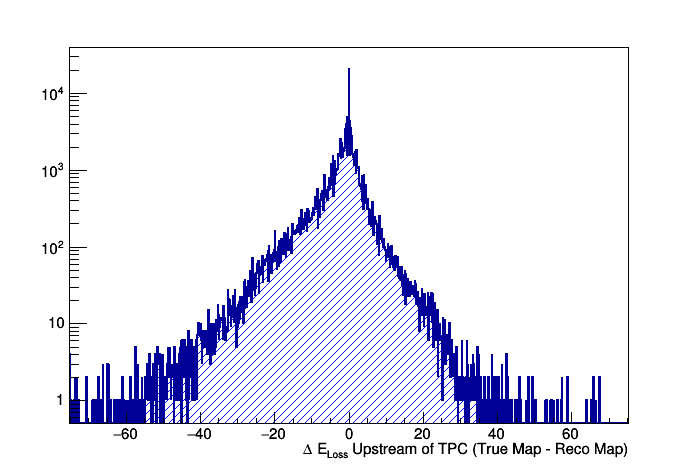
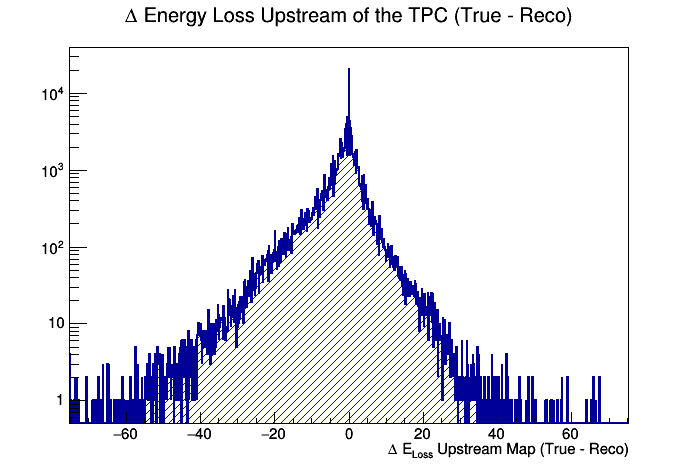
Checks for the Peaks

Changed region(s): [[0.1805, 0.0, 0.8123, 0.0594], [0.4513, 0.9214, 0.9026, 0.9809]]

diff --git a/ProtonMC.C b/ProtonMC.C
@@ -219,6 +219,29 @@ TH1D *hDeltaEnergyLossUpstreamTPCTruevsReco = new TH1D("hDeltaEnergyLossUpstream
 
 TH2D *hDeltaEInTPCvsTrkLength = new TH2D("hDeltaEInTPCvsTrkLength", "TrkLength vs Delta E", 1000, 0, 110, 1000, -75, 75);
 TH2D *hDeltaEInTPCvsKEinit = new TH2D("hDeltaEInTPCvsKEinit", "Initial KE vs Delta E", 80, 0, 800, 1000, -75, 75);
+
+//--------------------------------------|
+//--- Checking Dual Peaks Histograms ---|
+//--------------------------------------|
+
+TH1D *hLXRecoInTPC = new TH1D("hLXRecoInTPC", "Reconstructed X_{0} Inside the TPC of the Left Peak of the Dual Peaks", 200, -50, 50);
+TH1D *hLYRecoInTPC = new TH1D("hLYRecoInTPC", "Reconstructed Y_{0} Inside the TPC of the Left Peak of the Dual Peaks", 200, -50, 50);
+TH1D *hLZRecoInTPC = new TH1D("hLZRecoInTPC", "Reconstructed Z_{0} Inside the TPC of the Left Peak of the Dual Peaks", 600, -120, 180);
+
+TH1D *hLTrueELossInTPC = new TH1D("hLTrueELossInTPC", "The Left Peaks True E_{Loss} Inside the TPC", 1100, -100, 1000);
+TH1D *hLRecoELossInTPC = new TH1D("hLRecoELossInTPC", "The Left Peaks Reconstructed E_{Loss} Inside the TPC", 1100, -100, 1000);
+TH1D *hLDeltaInTPC = new TH1D("hLDeltaInTPC", "#Delta E_{Loss} Inside the TPC of the Left Peak (True - Reco)", 1000, -75, 75);
+
+TH1D *hRXRecoInTPC = new TH1D("hRXRecoInTPC", "Reconstructed X_{0} Inside the TPC of the Right Peak of the Dual Peaks", 200, -50, 50);
+TH1D *hRYRecoInTPC = new TH1D("hRYRecoInTPC", "Reconstructed Y_{0} Inside the TPC of the Right Peak of the Dual Peaks", 200, -50, 50);
+TH1D *hRZRecoInTPC = new TH1D("hRZRecoInTPC", "Reconstructed Z_{0} Inside the TPC of the Right Peak of the Dual Peaks", 600, -120, 180);
+
+TH1D *hRTrueELossInTPC = new TH1D("hRTrueELossInTPC", "The Right Peaks True E_{Loss} Inside the TPC", 1100, -100, 1000);
+TH1D *hRRecoELossInTPC = new TH1D("hRRecoELossInTPC", "The Right Peaks Reconstructed E_{Loss} Inside the TPC", 1100, -100, 1000);
+TH1D *hRDeltaInTPC = new TH1D("hRDeltaInTPC", "#Delta E_{Loss} Inside the TPC of the Right Peak (True - Reco)", 1000, -75, 75);
+
+//--------------------------------------|
+
 // ===================================================================================================================
 // ===================================================================================================================
 
@@ -1078,12 +1101,34 @@ for (Long64_t jentry=0; jentry<nentries;jentry++)
    hMCELossRecoInTPC->Fill(RecoEnergyLossInsideTPC);
    
    float DeltaEnergyLossInTPC = EnergyLossInsideTPC - RecoEnergyLossInsideTPC;
-   float DeltaELossUpstreamTruevsReco = -999.;
+   float DeltaELossUpstreamTruevsReco = 999;
 
    DeltaELossUpstreamTruevsReco = ELossMapTrue - EnergyLossFromMap;
 
-   if (DeltaELossUpstreamTruevsReco != -999) {hDeltaEnergyLossUpstreamTPCTruevsReco->Fill(DeltaELossUpstreamTruevsReco);}
+   if (DeltaELossUpstreamTruevsReco != 999) {hDeltaEnergyLossUpstreamTPCTruevsReco->Fill(DeltaELossUpstreamTruevsReco);}
 
+   if (DeltaEnergyLossInTPC >= 15 && DeltaEnergyLossInTPC <= 35) 
+      {
+      hLXRecoInTPC->Fill(FirstSpacePointX);
+      hLYRecoInTPC->Fill(FirstSpacePointY);
+      hLZRecoInTPC->Fill(FirstSpacePointZ);
+
+      hLRecoELossInTPC->Fill(RecoEnergyLossInsideTPC);
+      hLTrueELossInTPC->Fill(EnergyLossInsideTPC);
+      hLDeltaInTPC->Fill(DeltaEnergyLossInTPC);
+      }
+
+   if (DeltaEnergyLossInTPC >= 35 && DeltaEnergyLossInTPC <= 55) 
+      {
+      hRXRecoInTPC->Fill(FirstSpacePointX);
+      hRYRecoInTPC->Fill(FirstSpacePointY);
+      hRZRecoInTPC->Fill(FirstSpacePointZ);
+
+      hRRecoELossInTPC->Fill(RecoEnergyLossInsideTPC);
+      hRTrueELossInTPC->Fill(EnergyLossInsideTPC);
+      hRDeltaInTPC->Fill(DeltaEnergyLossInTPC);
+      }
+   
    hDeltaEnergyLossInTPCTruevsReco->Fill(DeltaEnergyLossInTPC);
 
    hDeltaEInTPCvsTrkLength->Fill(primary_track_length,DeltaEnergyLossInTPC);
@@ -1235,5 +1280,21 @@ hMCPrimaryPzvsELossUpstream->Write();
 
 hDeltaEInTPCvsTrkLength->Write();
 hDeltaEInTPCvsKEinit->Write();
+
+hLXRecoInTPC->Write();
+hLYRecoInTPC->Write();
+hLZRecoInTPC->Write();
+
+hRXRecoInTPC->Write();
+hRYRecoInTPC->Write();
+hRZRecoInTPC->Write();
+
+hLTrueELossInTPC->Write();
+hLRecoELossInTPC->Write();
+hLDeltaInTPC->Write();
+
+hRTrueELossInTPC->Write();
+hRRecoELossInTPC->Write();
+hRDeltaInTPC->Write();
 
 }//<----End Loop()
